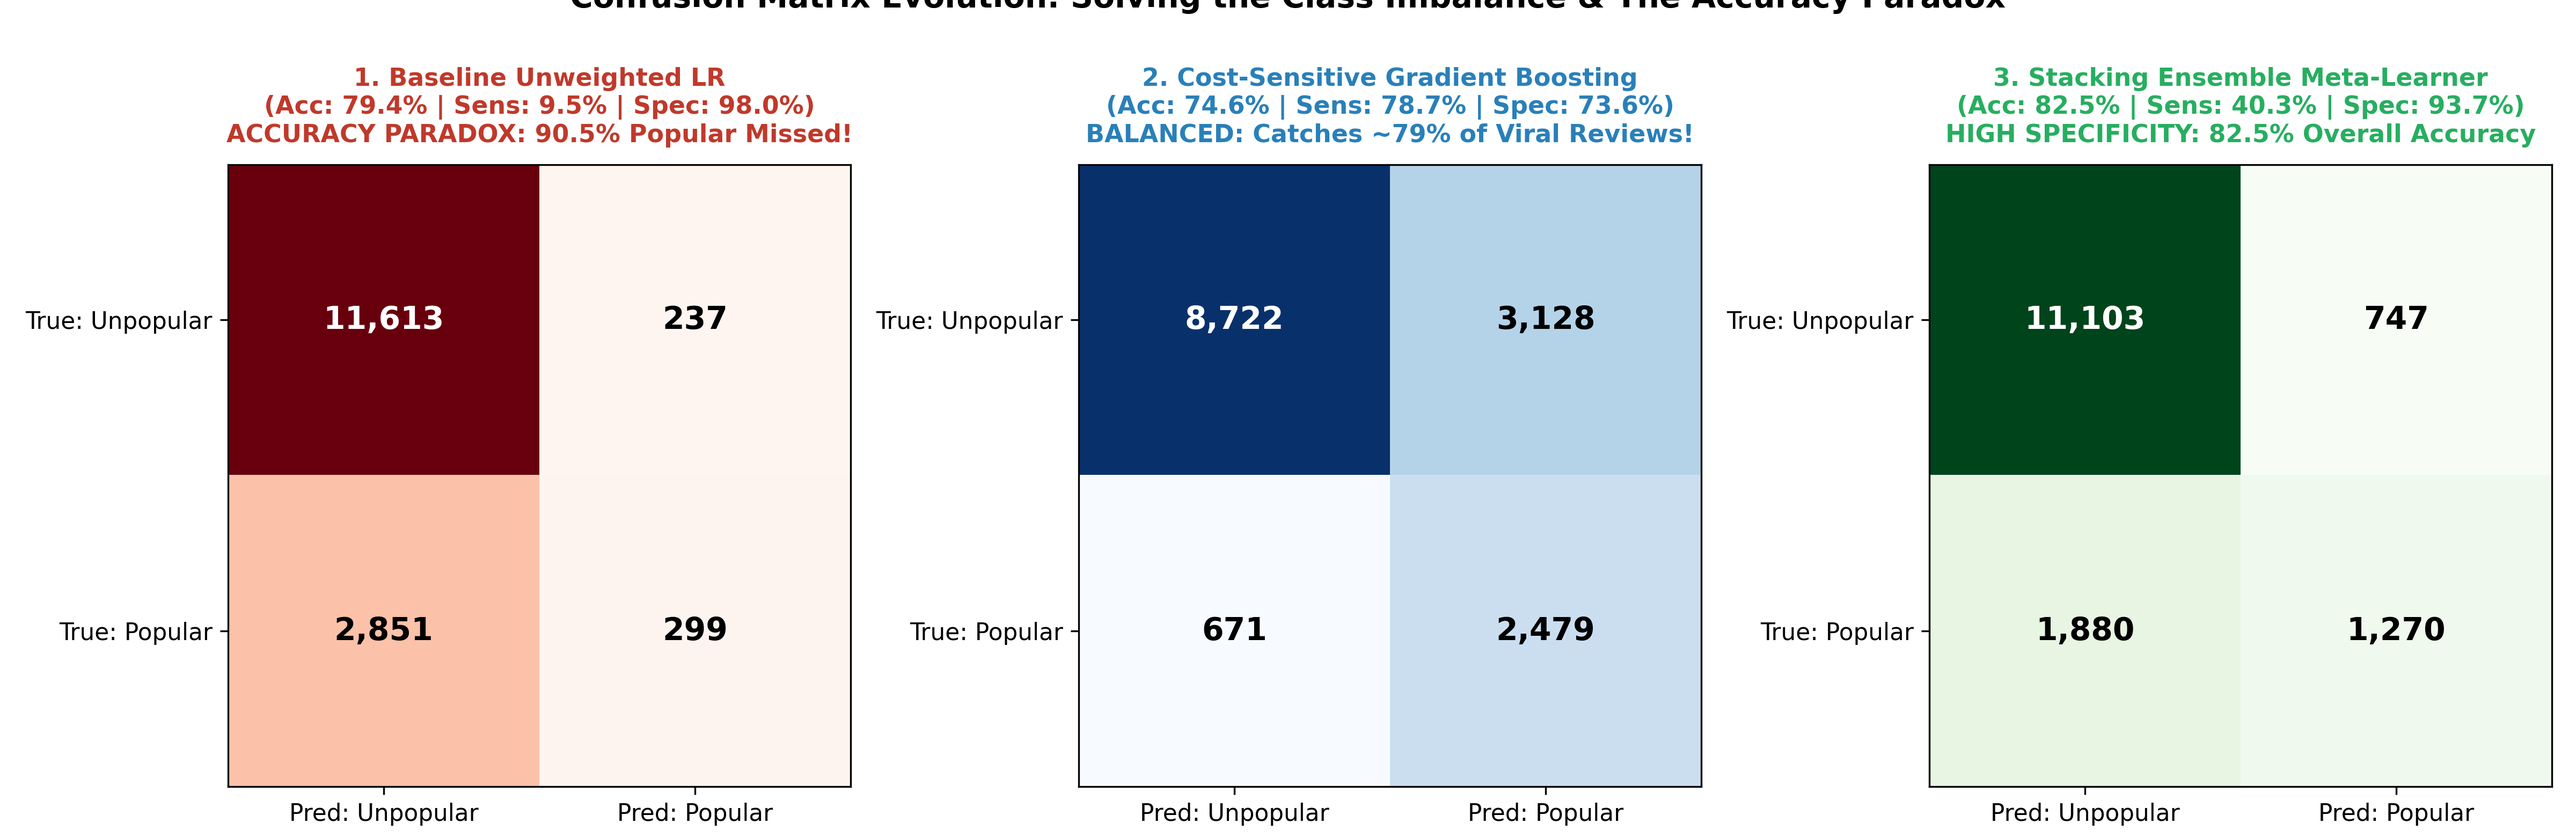
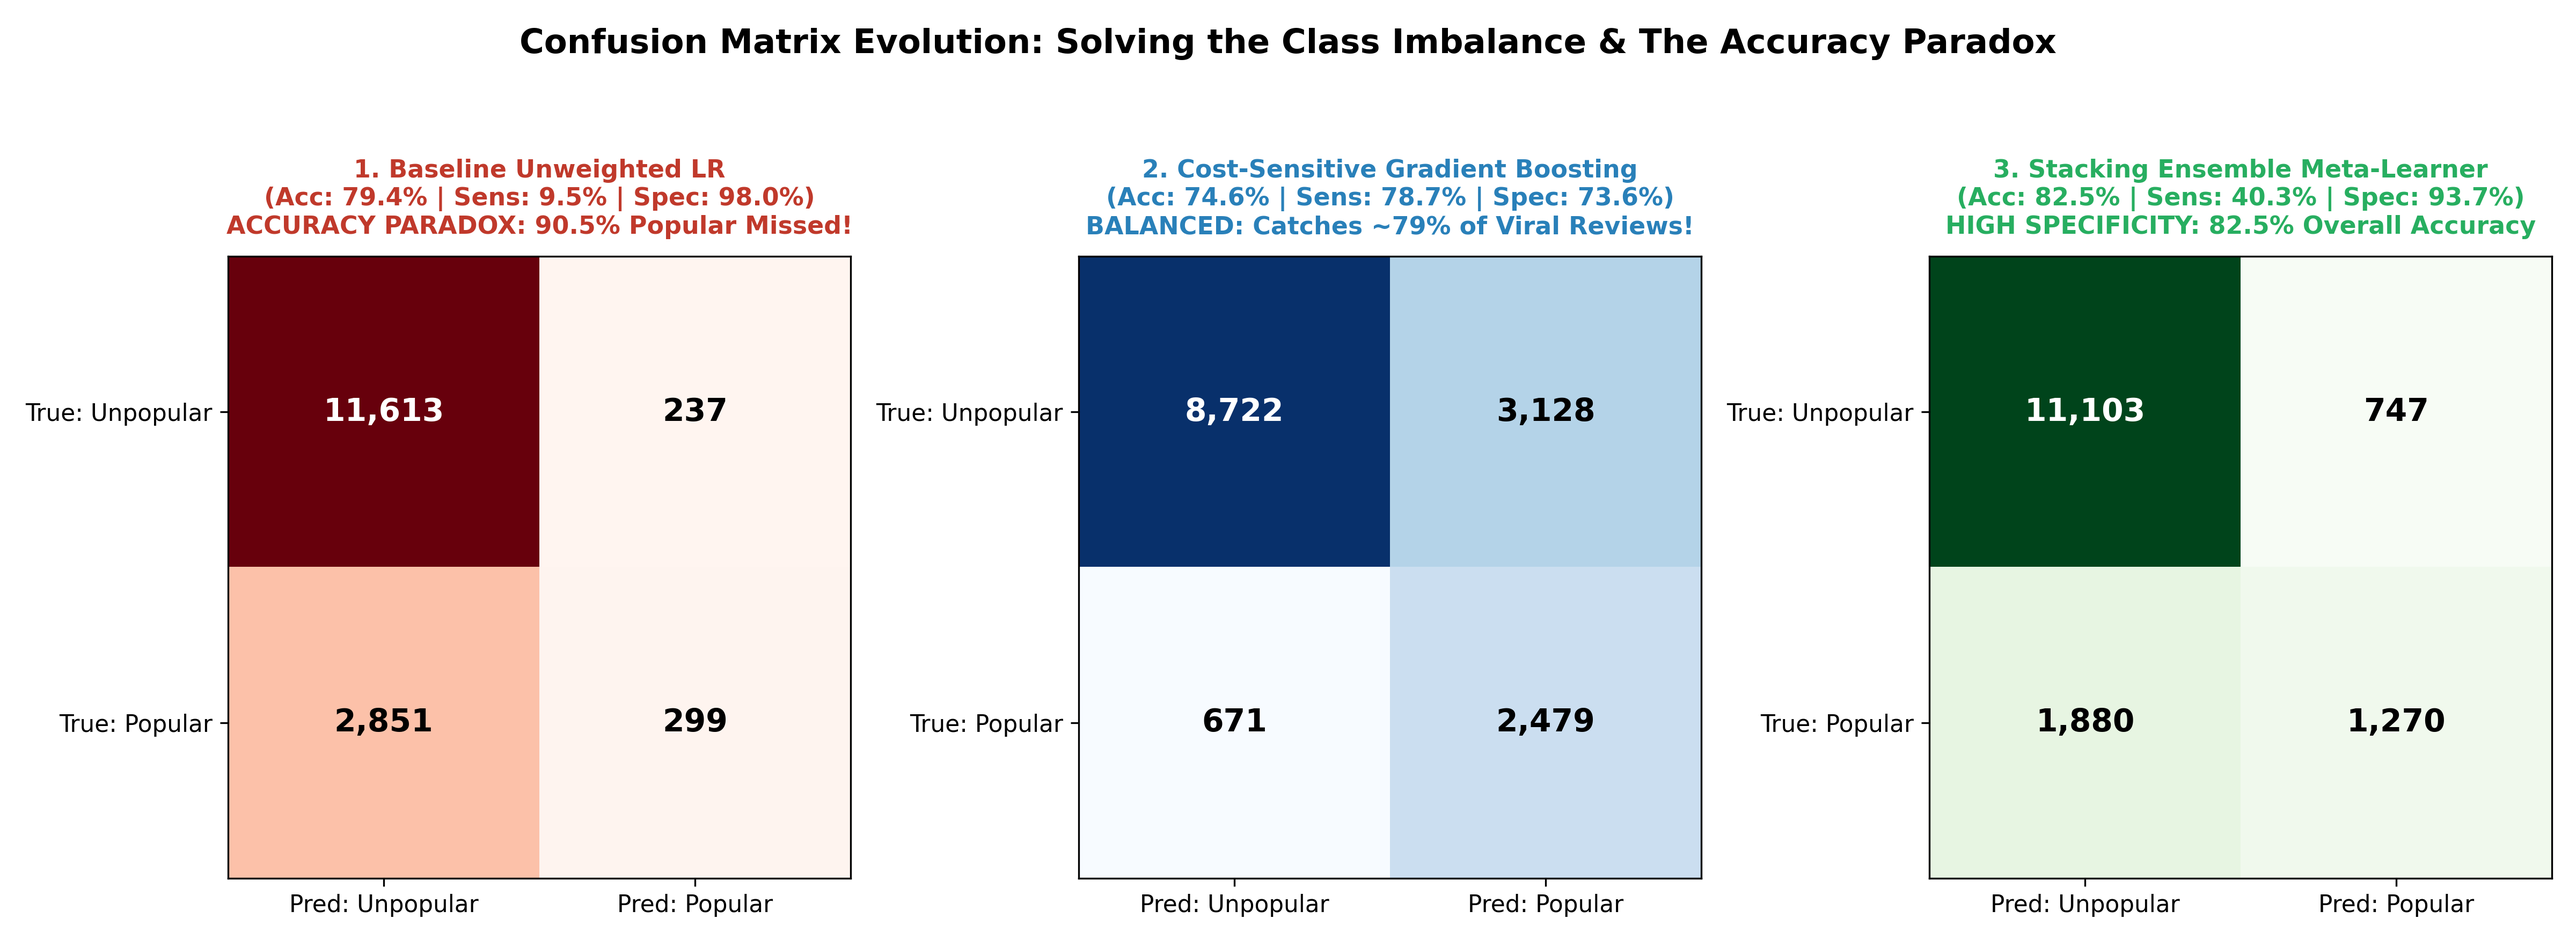
Fix title cutoff by expanding top margins in confusion matrices plot

diff --git a/generate_visual_analysis_plots.py b/generate_visual_analysis_plots.py
@@ -98,8 +98,8 @@ plot_kde(axes[1, 2], unpop['abs_rating_diff'], pop['abs_rating_diff'],
          '6. Divergence from Book Consensus (|rating_diff|)',
          '|user_rating - avg_book_rating| (Stars)', (0.0, 4.0))
 
-plt.suptitle('Anatomy of Popular vs. Unpopular Book Reviews (Feature Density Separations)', fontsize=15, fontweight='bold', y=0.99)
-plt.tight_layout()
+plt.suptitle('Anatomy of Popular vs. Unpopular Book Reviews (Feature Density Separations)', fontsize=15, fontweight='bold', y=0.98)
+plt.tight_layout(rect=[0, 0, 1, 0.95])
 p1_path = os.path.join(output_dir, 'feature_distributions_comparison.png')
 plt.savefig(p1_path, dpi=300)
 plt.close()
@@ -151,8 +151,8 @@ ax.grid(True, linestyle='--', alpha=0.4)
 ax.text(0.05, 0.72, 'Captures diminishing returns:\nJump from 1 to 10 reviews is large;\njump from 2000 to 2010 is subtle.', transform=ax.transAxes,
         bbox=dict(boxstyle='round,pad=0.5', facecolor='white', alpha=0.9, edgecolor='blue', lw=1.5))
 
-plt.suptitle('Why Log Transformations Were Crucial: Resolving Massive Power-Law Skewness', fontsize=15, fontweight='bold', y=0.99)
-plt.tight_layout()
+plt.suptitle('Why Log Transformations Were Crucial: Resolving Massive Power-Law Skewness', fontsize=15, fontweight='bold', y=0.98)
+plt.tight_layout(rect=[0, 0, 1, 0.94])
 p2_path = os.path.join(output_dir, 'why_log_transforms_matter.png')
 plt.savefig(p2_path, dpi=300)
 plt.close()
@@ -221,7 +221,7 @@ print(f"    -> Saved {p3_path}")
 # PLOT 4: Confusion Matrices (Resolving the Accuracy Paradox)
 # =========================================================================
 print("[*] Generating Plot 4: Confusion Matrices...")
-fig, axes = plt.subplots(1, 3, figsize=(16, 5.2))
+fig, axes = plt.subplots(1, 3, figsize=(16, 5.8))
 
 def draw_cm(ax, cm, title, subtitle, cmap_color, title_color):
     im = ax.imshow(cm, interpolation='nearest', cmap=cmap_color)
@@ -249,8 +249,8 @@ draw_cm(axes[1], cm2, "2. Cost-Sensitive Gradient Boosting", "(Acc: 74.6% | Sens
 cm3 = np.array([[11103, 747], [1880, 1270]])
 draw_cm(axes[2], cm3, "3. Stacking Ensemble Meta-Learner", "(Acc: 82.5% | Sens: 40.3% | Spec: 93.7%)\nHIGH SPECIFICITY: 82.5% Overall Accuracy", "Greens", "#27ae60")
 
-plt.suptitle('Confusion Matrix Evolution: Solving the Class Imbalance & The Accuracy Paradox', fontsize=14, fontweight='bold', y=1.02)
-plt.tight_layout()
+plt.suptitle('Confusion Matrix Evolution: Solving the Class Imbalance & The Accuracy Paradox', fontsize=15, fontweight='bold', y=0.97)
+plt.tight_layout(rect=[0, 0, 1, 0.88])
 p4_path = os.path.join(output_dir, 'confusion_matrices_breakthrough.png')
 plt.savefig(p4_path, dpi=300)
 plt.close()
